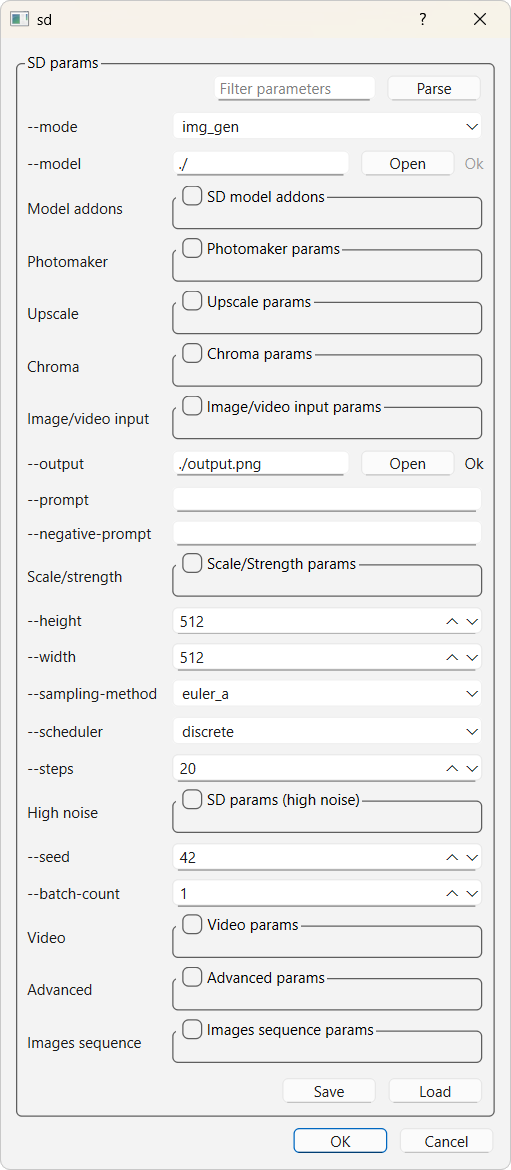
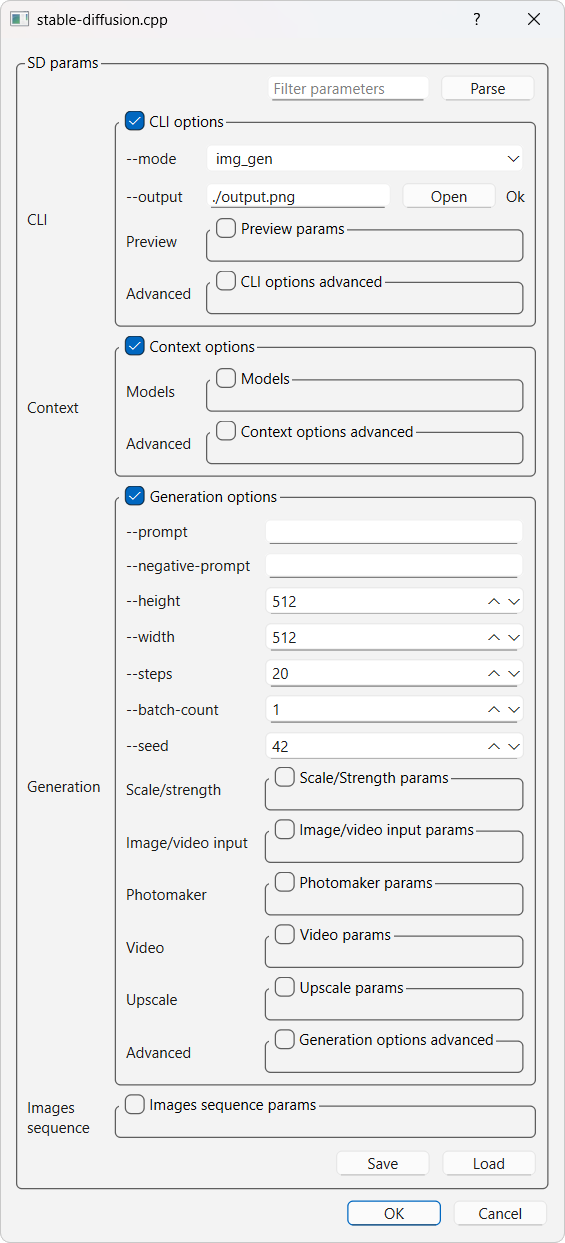
relocate in main_glove.h

Changed region(s): [[0.0, 0.0, 0.998, 1.0]]

diff --git a/thirdparty/glove.h b/thirdparty/glove.h
@@ -21,7 +21,7 @@
 
 #define GLOVE_VERSION_MAJOR 0
 #define GLOVE_VERSION_MINOR 7
-#define GLOVE_VERSION_PATCH 11
+#define GLOVE_VERSION_PATCH 12
 
 #ifndef GLOVE_DISABLE_QT
 #define OPTION_ENABLE_SLV_QT_PROGRESS 1
@@ -19164,6 +19164,8 @@ glvm_parametrization(GLOVE_APP_default_parametrization, "default");
 #define GLOVE_APP_RECURRENT_TYPE int
 /*! Used only if GLOVE_APP_RECURRENT_MODE is left to false.*/
 static GLOVE_APP_RECURRENT_TYPE glove_recurrent_var = 0;
+/*! To set a title to the application. Must be defined in main, before calling the GLOVE_APP macro.*/
+#define GLOVE_APP_TITLE(title) GlvApp::set_title(title);
 
 #define glvm_pv_GLOVE_APP(Tparametrization, _l_auto_glove) \
 return GlvApp::main<Tparametrization>(argc, argv, _l_auto_glove, GLOVE_APP_THREAD_MODE, GLOVE_APP_RECURRENT_MODE, glove_recurrent_var);\
@@ -19210,6 +19212,8 @@ private :
 	};
 
 public:
+
+	glvm_staticVariableGetSet(std::string, title, "");
 
 	template <class Tparametrization, class Trecurrent>
 	static int main(int _argc, char* _argv[], bool _l_auto_glove, bool _l_threaded, bool _l_recurrent, Trecurrent& _recurrent);
@@ -19400,6 +19404,7 @@ int GlvApp::main(int _argc, char* _argv[], bool _l_auto_glove, bool _l_threaded,
 	if (SlvCLI::has_glove(_argc, _argv) || _l_auto_glove) {
 
 		QApplication q_app(_argc, _argv);
+		q_app.setApplicationDisplayName(QString::fromStdString(title()));
 		if (_l_recurrent) {
 			q_app.setQuitOnLastWindowClosed(false);
 		}

diff --git a/examples/cli/main.cpp b/examples/cli/main.cpp
@@ -350,32 +350,6 @@ void step_callback(int step, int frame_count, sd_image_t* image, bool is_noisy, 
     }
 }
 
-#ifdef SD_EXAMPLES_GLOVE_GUI
-#ifdef SD_EXAMPLES_GLOVE_GUI_DESKTOP
-#pragma GLOVE_APP_MSVC_NO_CONSOLE
-#endif
-struct RecurrentStruct {
-    sd_ctx_t* sd_ctx = NULL;
-    GlvSdParams params;
-    bool model_updated(const GlvSdParams& _params) {
-        return _params.get_context_options() != params.get_context_options();
-    }
-    unsigned int count = 0;
-#ifdef SD_EXAMPLES_IMG2IMG_REPEAT
-    bool l_img2img_sequence = false;
-    unsigned int Nframes = 100000;
-    // Auto repeat if returns true
-    operator bool() const {
-        return l_img2img_sequence && count > 0 && count <= Nframes;
-    }
-#else
-    operator bool() const {
-        return false;
-    }
-#endif
-};
-#endif
-
 int main(int argc, char* argv[]) {
 
 #ifdef SD_EXAMPLES_GLOVE_GUI
@@ -392,13 +366,8 @@ int main(int argc, char* argv[]) {
     GlvApp::get_progression("Result");
     GlvApp::get_progression("Decoding latent video");
 
-#ifdef SD_EXAMPLES_GLOVE_GUI_DESKTOP
-#define GLOVE_APP_AUTO true
-#endif
-#define GLOVE_APP_RECURRENT_MODE true
-#define GLOVE_APP_RECURRENT_TYPE RecurrentStruct
-
     RecurrentStruct glove_recurrent_var;
+    GLOVE_APP_TITLE("stable-diffusion.cpp");
     GLOVE_APP_PARAM(GlvSdParams);
 
     if (argc > 1 && std::string(argv[1]) == "--version") {

diff --git a/examples/cli/main_glove.h b/examples/cli/main_glove.h
@@ -254,3 +254,35 @@ sd_image_t* crop(const sd_image_t& _image, int _left, int _right, int _up, int _
     return image;
 }
 #endif
+
+#ifdef SD_EXAMPLES_GLOVE_GUI
+#ifdef SD_EXAMPLES_GLOVE_GUI_DESKTOP
+#pragma GLOVE_APP_MSVC_NO_CONSOLE
+#endif
+struct RecurrentStruct {
+    sd_ctx_t* sd_ctx = NULL;
+    GlvSdParams params;
+    bool model_updated(const GlvSdParams& _params) {
+        return _params.get_context_options() != params.get_context_options();
+    }
+    unsigned int count = 0;
+#ifdef SD_EXAMPLES_IMG2IMG_REPEAT
+    bool l_img2img_sequence = false;
+    unsigned int Nframes    = 100000;
+    // Auto repeat if returns true
+    operator bool() const {
+        return l_img2img_sequence && count > 0 && count <= Nframes;
+    }
+#else
+    operator bool() const {
+        return false;
+    }
+#endif
+};
+#endif
+
+#ifdef SD_EXAMPLES_GLOVE_GUI_DESKTOP
+#define GLOVE_APP_AUTO true
+#endif
+#define GLOVE_APP_RECURRENT_MODE true
+#define GLOVE_APP_RECURRENT_TYPE RecurrentStruct
